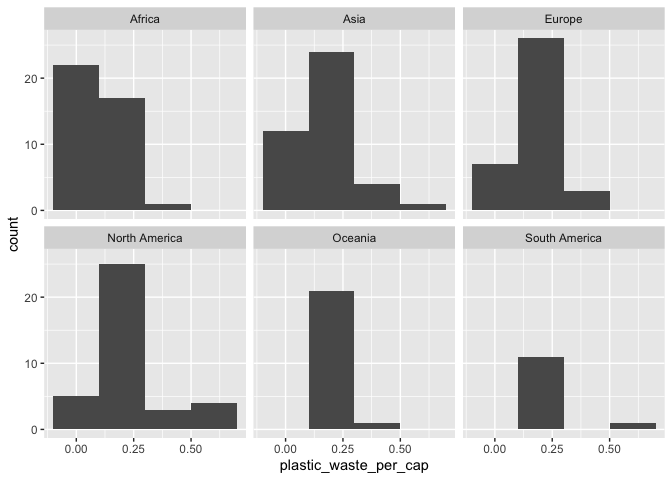
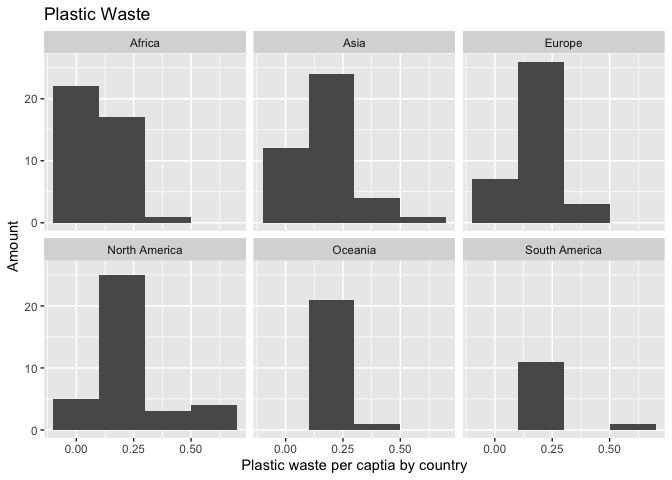
Up through Q3
Something might be going wrong with my filter code line? We'll see

diff --git a/lab-02.md b/lab-02.md
@@ -28,7 +28,12 @@ true_plastic <- plastic_waste %>%
 
 ggplot(data = true_plastic, aes(x = plastic_waste_per_cap)) +
   #To make them one graph by color, add in fill = continent after plastice_waste_per_cap
-  geom_histogram(binwidth = 0.2) + facet_wrap(~continent)
+  geom_histogram(binwidth = 0.2) + facet_wrap(~continent) +
+  labs(
+      x = "Plastic waste per captia by country",
+      y = "Amount",
+      title = "Plastic Waste"
+  )
 ```
 
 ![](lab-02_files/figure-gfm/plastic-waste-continent-1.png)<!-- -->
@@ -42,13 +47,19 @@ ggplot(
     fill = continent
   )
 ) +
-  geom_density(alpha = 0.7)
+  geom_density(alpha = 0.7) +
+  labs(
+      x = "Plastic waste per captia",
+      y = "amount",
+      title = "Density map of Plastic Waste by country"
+  )
 ```
 
 ![](lab-02_files/figure-gfm/plastic-waste-continent-2.png)<!-- --> What
 I can tell is that they all look pretty similar in terms of plastic
 waste per capita. North America has a singular outlier which makes the
-graph all look the same.
+graph all look the same. Took out North America outlier, all still
+follow similar trend. Africa has higher plastic waste.
 
 ### Exercise 2
 
@@ -75,7 +86,12 @@ ggplot(
     y = plastic_waste_per_cap
   )
 ) +
-  geom_boxplot()
+  geom_boxplot() +
+labs(
+      x = "Plastic waste per captia",
+      y = "amount",
+      title = "Side by side of Plastic Waste by country"
+  )
 ```
 
 ![](lab-02_files/figure-gfm/plastic-waste-density-2.png)<!-- -->
@@ -86,11 +102,25 @@ show multiple colors. Density is universal and not tied to a variable.
 
 ### Exercise 3
 
-Remove this text, and add your answer for Exercise 3 here.
+They all look like vases. Asia has a really skinny neck.
 
 ``` r
-# insert code here
+ggplot(
+  data = true_plastic,
+  mapping = aes(
+    x = continent,
+    y = plastic_waste_per_cap
+  )
+) +
+ geom_violin() +
+  labs(
+      x = "Plastic waste per captia",
+      y = "amount",
+      title = "Violin map of Plastic Waste by country"
+  )
 ```
+
+![](lab-02_files/figure-gfm/plastic-waste-violin-1.png)<!-- -->
 
 ### Exercise 4
 
